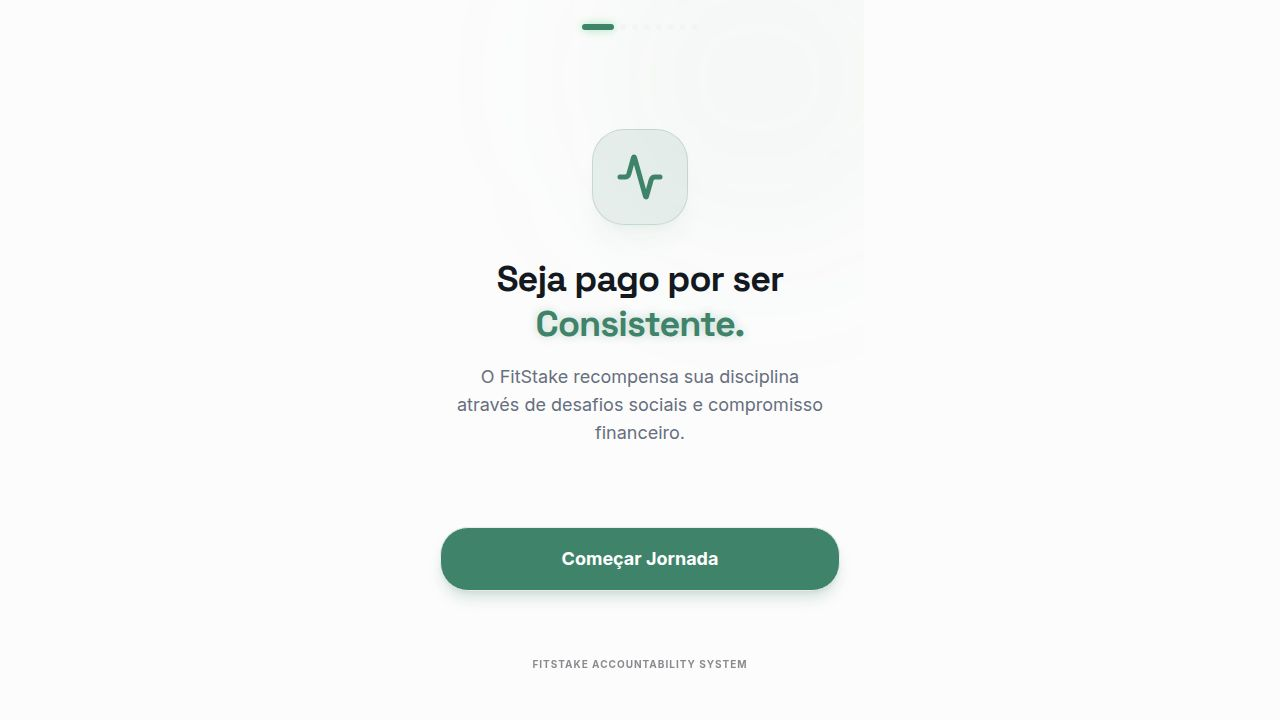
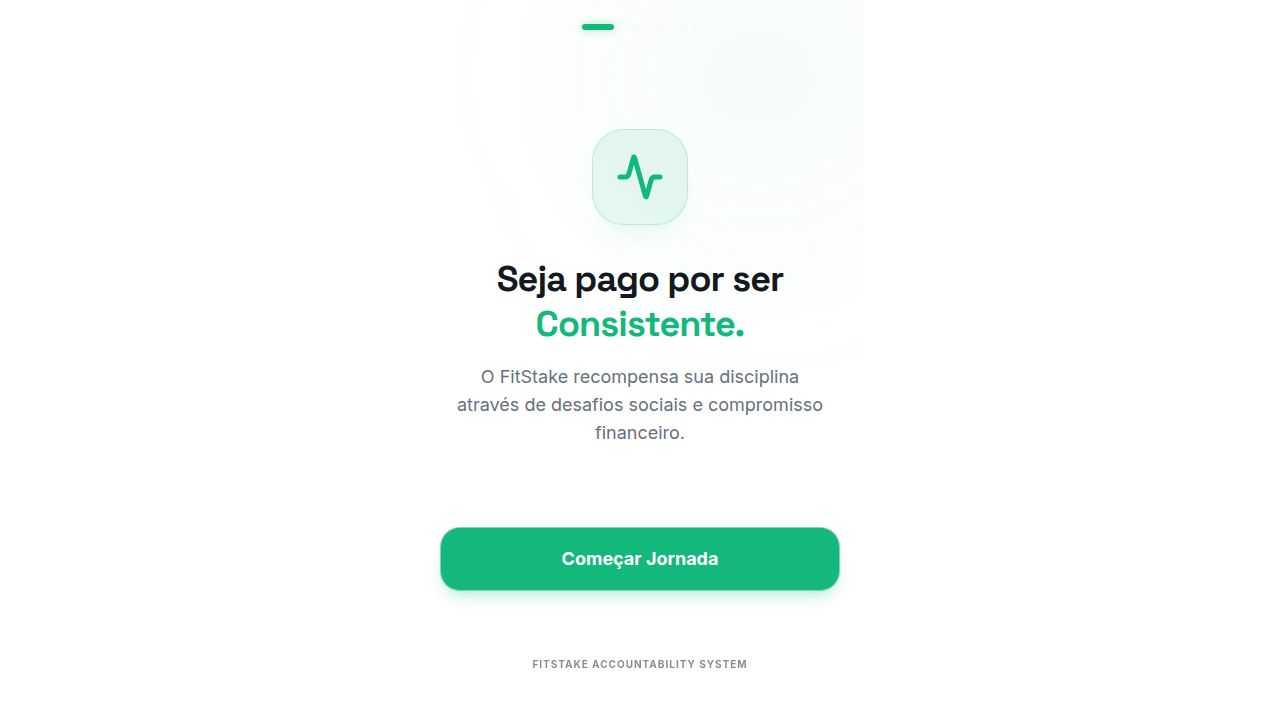
Update styling to achieve a minimalist design with subtle color adjustments
Adjusted CSS variables for light and dark modes, refined color palettes, reduced border-radius, and removed text glow effects to create a cleaner, more minimalist interface.

Replit-Commit-Author: Agent
Replit-Commit-Session-Id: 0ebdc8db-07a7-4f37-a5e6-39f3d7051c28
Replit-Commit-Checkpoint-Type: full_checkpoint
Replit-Commit-Event-Id: 1fa67b96-f3d8-4e80-8dcd-5f3a711dc41e
Replit-Commit-Screenshot-Url: https://storage.googleapis.com/screenshot-production-us-central1/cc19ad50-2647-4531-8209-9a659b537e5d/0ebdc8db-07a7-4f37-a5e6-39f3d7051c28/8Xcy7ud
Replit-Helium-Checkpoint-Created: true

diff --git a/client/src/index.css b/client/src/index.css
@@ -38,8 +38,8 @@
 }
 
 :root {
-  /* Light Mode - More Professional & Readable */
-  --background: 0 0% 99%;
+  /* Light Mode - Minimalist & Clean */
+  --background: 0 0% 100%;
   --foreground: 220 20% 10%;
 
   --card: 0 0% 100%;
@@ -48,48 +48,48 @@
   --popover: 0 0% 100%;
   --popover-foreground: 220 20% 10%;
 
-  /* Brand Primary: Verde Esmeralda Vibrante mas Equilibrado */
-  --primary: 158 85% 42%;
+  /* Brand Primary: Verde Esmeralda Elegante */
+  --primary: 158 80% 40%;
   --primary-foreground: 0 0% 100%;
 
-  --secondary: 220 15% 94%;
+  --secondary: 220 15% 96%;
   --secondary-foreground: 220 20% 10%;
 
-  --muted: 220 15% 96%;
+  --muted: 220 15% 98%;
   --muted-foreground: 220 10% 45%;
 
-  /* Brand Highlight: #FF5C00 adjusted for light */
-  --accent: 22 100% 45%;
+  /* Brand Highlight: Laranja Minimalista */
+  --accent: 22 90% 48%;
   --accent-foreground: 0 0% 100%;
 
-  --border: 220 15% 92%;
-  --input: 220 15% 92%;
-  --ring: 158 85% 42%;
+  --border: 220 15% 94%;
+  --input: 220 15% 94%;
+  --ring: 158 80% 40%;
 
-  --radius: 1.25rem;
+  --radius: 0.75rem;
 }
 
 @media (prefers-color-scheme: dark) {
   :root {
-    /* Brand Dark Mode: #0D0D0D */
-    --background: 0 0% 5%;
-    --foreground: 0 0% 100%;
+    /* Brand Dark Mode: Profundo e Minimalista */
+    --background: 220 20% 3%;
+    --foreground: 0 0% 98%;
 
-    --card: 0 0% 10%;
-    --card-foreground: 0 0% 100%;
+    --card: 220 20% 5%;
+    --card-foreground: 0 0% 98%;
 
-    --popover: 0 0% 10%;
-    --popover-foreground: 0 0% 100%;
+    --popover: 220 20% 5%;
+    --popover-foreground: 0 0% 98%;
 
-    /* Brand Primary: Verde Esmeralda Neon/Cyber para Dark Mode */
+    /* Verde Primary: Neon Suave para Dark */
     --primary: 151 100% 45%;
     --primary-foreground: 151 100% 5%;
 
-    --secondary: 0 0% 15%;
-    --secondary-foreground: 0 0% 100%;
+    --secondary: 220 20% 8%;
+    --secondary-foreground: 0 0% 98%;
 
-    --muted: 0 0% 15%;
-    --muted-foreground: 0 0% 63%;
+    --muted: 220 20% 8%;
+    --muted-foreground: 220 10% 60%;
 
     --accent: 22 100% 50%;
     --accent-foreground: 0 0% 100%;
@@ -97,29 +97,29 @@
     --destructive: 0 84% 60%;
     --destructive-foreground: 0 0% 98%;
 
-    --border: 0 0% 15%;
-    --input: 0 0% 15%;
+    --border: 220 20% 10%;
+    --input: 220 20% 10%;
     --ring: 151 100% 45%;
   }
 }
 
 @layer base {
   * {
-    @apply border-border;
+    @apply border-border/50;
   }
   body {
-    @apply bg-background text-foreground font-sans selection:bg-primary/30 selection:text-primary;
+    @apply bg-background text-foreground font-sans selection:bg-primary/20 selection:text-primary;
     -webkit-tap-highlight-color: transparent;
   }
   h1, h2, h3, h4, h5, h6 {
-    @apply font-display tracking-tight font-bold;
+    @apply font-display tracking-tight font-semibold;
   }
 }
 
 /* Custom Scrollbar */
 ::-webkit-scrollbar {
-  width: 6px;
-  height: 6px;
+  width: 4px;
+  height: 4px;
 }
 ::-webkit-scrollbar-track {
   background: transparent;
@@ -131,19 +131,19 @@
 
 @layer utilities {
   .glass {
-    @apply bg-background/60 backdrop-blur-xl border border-black/5 dark:border-white/5;
+    @apply bg-background/70 backdrop-blur-md border border-foreground/5;
   }
   .glass-card {
-    @apply bg-card/60 backdrop-blur-xl border border-black/5 dark:border-white/5 shadow-xl shadow-black/5 dark:shadow-black/50;
+    @apply bg-card/40 backdrop-blur-md border border-foreground/5 shadow-sm;
   }
   .text-glow {
-    text-shadow: 0 0 15px hsl(var(--primary) / 0.4);
+    text-shadow: none;
   }
   .accent-glow {
-    text-shadow: 0 0 15px hsl(var(--accent) / 0.4);
+    text-shadow: none;
   }
   .btn-primary-glow {
-    box-shadow: 0 0 20px hsl(var(--primary) / 0.3);
+    box-shadow: 0 4px 14px 0 hsl(var(--primary) / 0.15);
   }
 }
 
